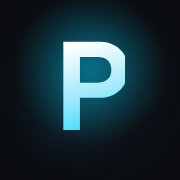
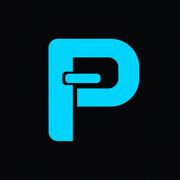
feat(web): apply Praxis Guard branding and social assets

diff --git a/apps/web/components/marketing/HeroPremium.tsx b/apps/web/components/marketing/HeroPremium.tsx
@@ -1,26 +1,22 @@
 import Link from "next/link";
 import { ArrowRight, ShieldCheck } from "lucide-react";
 
-/**
- * Premium command-deck hero. Sits over the live WebGL aurora (GradientField).
- * Gradient-clipped headline, one-line subhead, two CTAs. Staggered reveal on
- * load, capped at 400ms, gated on prefers-reduced-motion via .rise. Renders a
- * fragment; the page owns the full-viewport-height layout and centering.
- */
+/** Launch identity shared with the Praxis Guard profile and social preview. */
 export function HeroPremium() {
   return (
     <>
       <h1
-        className="rise text-gradient max-w-[16ch] text-[clamp(40px,6.5vw,68px)] font-semibold leading-[1.04] tracking-[-0.02em]"
+        className="rise max-w-[19ch] text-[clamp(38px,6.5vw,68px)] font-semibold leading-[1.08] tracking-[-0.025em] text-[var(--text-hi)]"
       >
-        A safety layer between your AI agent and its wallet.
+        Your agents act.
+        <span className="block text-[var(--accent)]">You set the limits.</span>
       </h1>
 
       <p
         className="rise max-w-[58ch] text-[clamp(16px,1.6vw,19px)] leading-[1.55] text-[var(--text-mid)]"
       >
-        Praxis simulates and risk-scores every spend before it signs, and writes the
-        reasoning to a verifiable audit trail.
+        Spending controls for AI agents. Set policies and budgets, simulate payments
+        before signing, and verify why each decision passed or was blocked.
       </p>
 
       <div
@@ -28,7 +24,7 @@ export function HeroPremium() {
       >
         <Link
           href="/docs"
-          className="glow-accent inline-flex h-11 cursor-pointer items-center gap-2 rounded-[var(--r-sm)] bg-[var(--accent)] px-5 text-[15px] font-semibold text-[#04121a] transition-transform duration-150 hover:-translate-y-0.5 focus-visible:outline-2 focus-visible:outline-offset-2 focus-visible:outline-[var(--accent)]"
+          className="inline-flex h-11 cursor-pointer items-center gap-2 rounded-[var(--r-sm)] bg-[var(--accent)] px-5 text-[15px] font-semibold text-[#04121a] transition-transform duration-150 hover:-translate-y-0.5 focus-visible:outline-2 focus-visible:outline-offset-2 focus-visible:outline-[var(--accent)]"
         >
           Read the quickstart
           <ArrowRight className="h-4 w-4" />

diff --git a/apps/web/app/layout.tsx b/apps/web/app/layout.tsx
@@ -2,6 +2,7 @@ import type { Metadata } from "next";
 import { GeistSans } from "geist/font/sans";
 import { JetBrains_Mono, Space_Grotesk } from "next/font/google";
 import { RouteHistory } from "@/components/navigation/RouteHistory";
+import { SITE_DESCRIPTION, SITE_TITLE, SITE_URL, SOCIAL_HANDLE } from "@/lib/brand";
 import "./globals.css";
 
 const jetbrainsMono = JetBrains_Mono({
@@ -19,21 +20,14 @@ const spaceGrotesk = Space_Grotesk({
   display: "swap",
 });
 
-// Production origin. Drives absolute URLs for OG/Twitter images and canonical.
-// Update if the deployed domain differs.
-const SITE_URL = "https://praxis.allensaji.dev";
-
-const TITLE = "Praxis - a safety layer between your AI agent and its wallet";
-const DESCRIPTION =
-  "Praxis simulates and risk-scores every spend before it signs, and writes the reasoning to a verifiable on-chain audit trail. Testnet, Sui only in v1.";
-
 export const metadata: Metadata = {
   metadataBase: new URL(SITE_URL),
-  title: TITLE,
-  description: DESCRIPTION,
+  title: SITE_TITLE,
+  description: SITE_DESCRIPTION,
   applicationName: "Praxis",
   keywords: [
     "Praxis",
+    "Praxis Guard",
     "Sui",
     "AI agents",
     "agent wallet security",
@@ -52,16 +46,15 @@ export const metadata: Metadata = {
     type: "website",
     url: SITE_URL,
     siteName: "Praxis",
-    title: TITLE,
-    description:
-      "Simulate and risk-score every spend before it signs. Write the reasoning to a verifiable on-chain audit trail.",
+    title: SITE_TITLE,
+    description: SITE_DESCRIPTION,
     locale: "en_US",
   },
   twitter: {
     card: "summary_large_image",
-    title: TITLE,
-    description:
-      "Simulate and risk-score every spend before it signs. Write the reasoning to a verifiable on-chain audit trail.",
+    title: SITE_TITLE,
+    description: SITE_DESCRIPTION,
+    site: SOCIAL_HANDLE,
     creator: "@SajiBhai011",
   },
 };

diff --git a/apps/web/components/marketing/SiteFooter.tsx b/apps/web/components/marketing/SiteFooter.tsx
@@ -1,4 +1,6 @@
 import Link from "next/link";
+import { Wordmark } from "@/components/brand/Wordmark";
+import { SOCIAL_HANDLE, SOCIAL_URL } from "@/lib/brand";
 import { truncateMiddle } from "@/lib/format";
 
 /** Landing/docs footer: links, the testnet package id, GitHub. */
@@ -7,13 +9,22 @@ export function SiteFooter({ packageId }: { packageId: string }) {
     <footer className="border-t border-white/5 bg-[rgba(9,11,15,0.4)] backdrop-blur-md">
       <div className="mx-auto flex w-full max-w-[1080px] flex-col gap-4 px-5 py-8 sm:flex-row sm:items-center sm:justify-between">
         <div className="flex flex-col gap-1">
-          <span className="text-[14px] font-semibold text-[var(--text-hi)]">Praxis</span>
+          <Wordmark className="text-[20px]" />
           <span className="text-[12px] text-[var(--text-low)]">
-            A safety layer between your AI agent and its wallet. Testnet, SUI only in v1.
+            Spending controls for AI agents. Sui Testnet preview.
           </span>
         </div>
         <div className="flex flex-col gap-1 sm:items-end">
-          <div className="flex items-center gap-4 text-[13px]">
+          <div className="flex flex-wrap items-center gap-x-4 text-[13px]">
+            <Link
+              href={SOCIAL_URL}
+              target="_blank"
+              rel="noopener noreferrer"
+              aria-label="Praxis Guard on X"
+              className="inline-flex min-h-11 items-center justify-center text-[var(--accent)] hover:underline focus-visible:outline-2 focus-visible:outline-offset-2 focus-visible:outline-[var(--accent)]"
+            >
+              {SOCIAL_HANDLE}
+            </Link>
             <Link
               href="/docs"
               className="inline-flex min-h-11 min-w-11 items-center justify-center text-[var(--text-mid)] transition-colors duration-150 hover:text-[var(--text-hi)]"

diff --git a/apps/web/components/brand/Wordmark.tsx b/apps/web/components/brand/Wordmark.tsx
@@ -1,37 +1,32 @@
+import Image from "next/image";
+import mark from "@/app/icon.png";
 import { cn } from "@/lib/cn";
 
-/**
- * The Praxis text wordmark: Space Grotesk with a glowing cyan "i" tying it to the
- * brand accent. Replaces the old shield icon. Size is controlled by the caller
- * via className (font-size); weight and tracking are baked in.
- *
- * `monogram` renders a compact "P." (cyan glow dot) for the collapsed mobile nav
- * rail where the full wordmark would not fit.
- */
+/** Shared opaque gate mark and wordmark for marketing and workspace navigation. */
 export function Wordmark({
   className,
   monogram = false,
+  compactOnMobile = false,
 }: {
   className?: string;
   monogram?: boolean;
+  compactOnMobile?: boolean;
 }) {
-  const accent = "text-[var(--accent)] [text-shadow:0_0_12px_rgba(0,210,255,0.65)]";
   return (
     <span
+      role="img"
+      aria-label="Praxis"
       style={{ fontFamily: "var(--font-space-grotesk)" }}
       className={cn(
-        "font-semibold tracking-[-0.01em] text-[var(--text-hi)] select-none",
+        "inline-flex shrink-0 items-center gap-1.5 font-semibold tracking-[-0.01em] text-[var(--text-hi)] select-none",
         className,
       )}
     >
-      {monogram ? (
-        <>
-          P<span className={accent}>.</span>
-        </>
-      ) : (
-        <>
-          Prax<span className={accent}>i</span>s
-        </>
+      <Image src={mark} alt="" width={40} height={40} className="h-10 w-10 shrink-0 rounded-[var(--r-sm)]" />
+      {!monogram && (
+        <span className={compactOnMobile ? "hidden sm:inline" : undefined}>
+          Prax<span className="text-[var(--accent)]">i</span>s
+        </span>
       )}
     </span>
   );

diff --git a/apps/web/components/marketing/SiteNav.tsx b/apps/web/components/marketing/SiteNav.tsx
@@ -12,7 +12,7 @@ export function SiteNav() {
           className="flex min-h-11 items-center rounded-[var(--r-sm)] focus-visible:outline-2 focus-visible:outline-offset-2 focus-visible:outline-[var(--accent)]"
           aria-label="Praxis home"
         >
-          <Wordmark className="text-[20px]" />
+          <Wordmark className="text-[20px]" compactOnMobile />
         </Link>
         <nav className="flex items-center gap-1 text-[14px]" aria-label="Primary">
           <Link

diff --git a/apps/web/lib/brand.ts b/apps/web/lib/brand.ts
@@ -1,0 +1,6 @@
+export const SITE_URL = "https://praxis.allensaji.dev";
+export const SOCIAL_HANDLE = "@PraxisGuard";
+export const SOCIAL_URL = "https://x.com/PraxisGuard";
+export const SITE_TITLE = "Praxis - spending controls for AI agents";
+export const SITE_DESCRIPTION =
+  "Your agents act. You set the limits. Manage agent spending policies, simulate payments before signing, and inspect verifiable decision evidence. Sui Testnet preview.";

diff --git a/apps/web/DESIGN.md b/apps/web/DESIGN.md
@@ -820,3 +820,20 @@ foreground element animates on a money figure mid-read.
 Component inventory, data sources (section 9), real-data-or-empty, risk color
 semantics and contrast rules (section 5), mono-for-truth, table density numbers
 (section 6), accessibility. The redesign is a surface, not a re-architecture.
+
+## 16. Praxis Guard launch identity
+
+The product name remains Praxis; its X profile is `@PraxisGuard`. The gate-shaped
+cyan P is the shared brand mark in navigation, favicon, Apple touch icon, and
+social previews. Raster marks have an opaque charcoal background so browser and
+profile surfaces cannot introduce white halos. The compact mobile navigation
+uses the mark alone; desktop includes the existing wordmark and cyan `i`.
+
+The launch headline is "Your agents act. You set the limits." Use solid text
+colors and a restrained primary button instead of gradient type or a glowing
+wordmark. Charcoal, cyan, typography, and the separate risk colors remain in
+place. The description identifies agent spending controls and the Sui Testnet
+preview. Social previews are 1200 x 630 pixels with descriptive alt text.
+
+Shared metadata and the public X link live in `lib/brand.ts`. The social site
+account is Praxis Guard; Allen remains the author and creator attribution.
